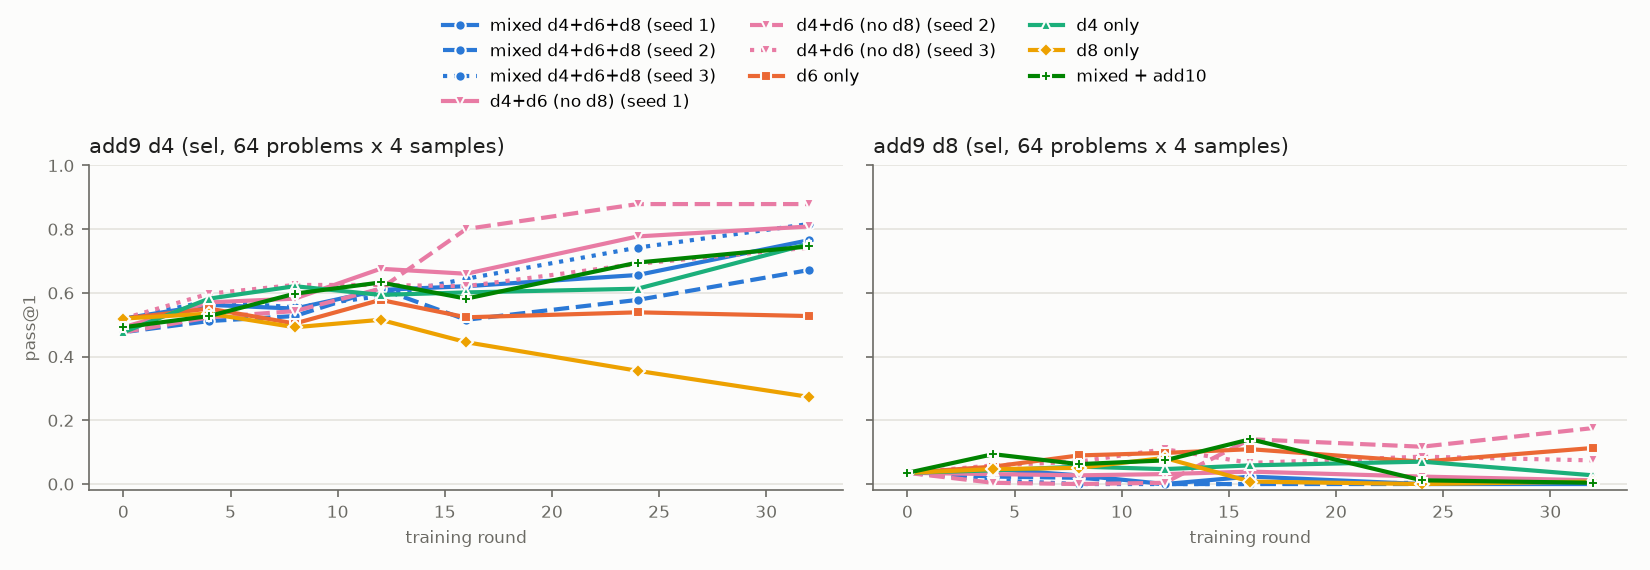
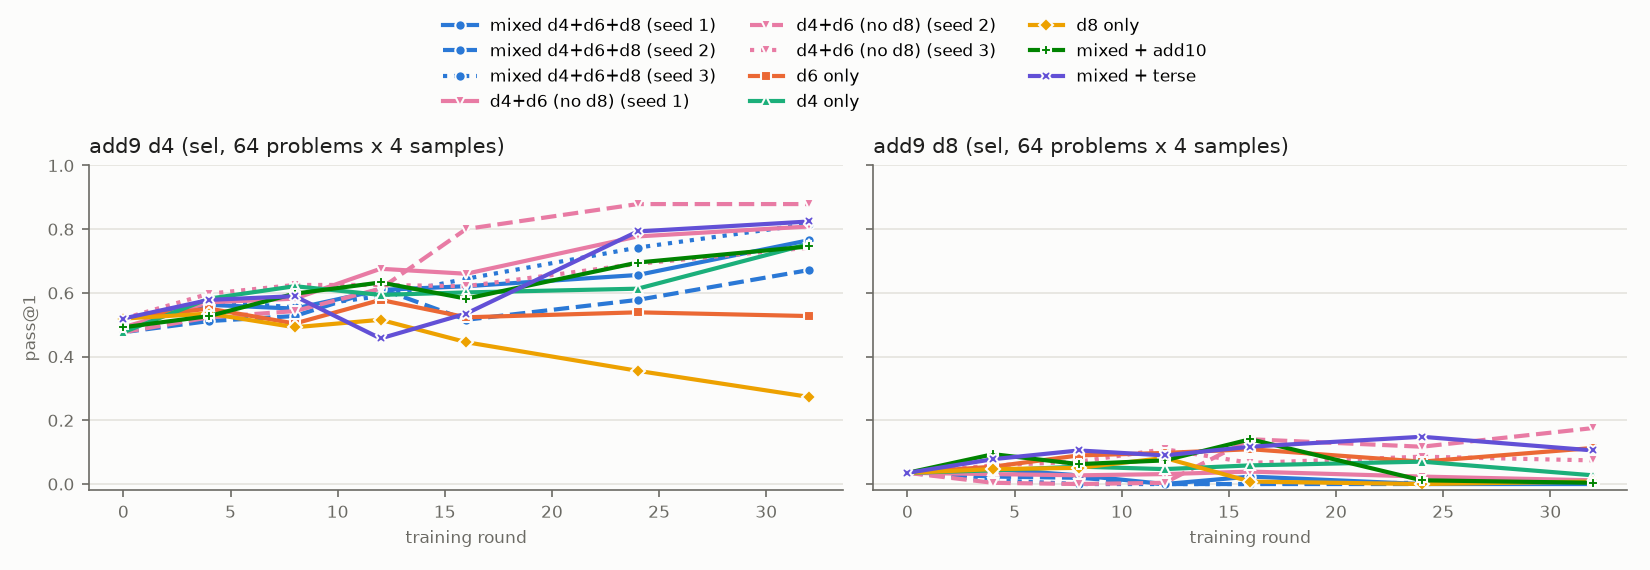
s02 report: J(add9,terse) (F18)

diff --git a/reports/Nov-15-2026-02-vineeth-babel-slurm-interference-dynamics/build/figs.py b/reports/Nov-15-2026-02-vineeth-babel-slurm-interference-dynamics/build/figs.py
@@ -78,7 +78,8 @@ ADD9 = [("mixed d4+d6+d8", 0, [("qis-s02-e1-add9-s1", 1), ("qis-s02-e3-add9mix-s
         ("d6 only", 1, [("qis-s02-e3-add9d6-s1", 1)]),
         ("d4 only", 2, [("qis-s02-e3-add9d4-s1", 1)]),
         ("d8 only", 3, [("qis-s02-e3-add9d8-s1", 1)]),
-        ("mixed + add10", 5, [("qis-s02-j-add9-add10-s1", 1)])]
+        ("mixed + add10", 5, [("qis-s02-j-add9-add10-s1", 1)]),
+        ("mixed + terse", 6, [("qis-s02-j-add9-terse-s1", 1)])]
 
 
 def fig_add9(res, out):

diff --git a/reports/Nov-15-2026-02-vineeth-babel-slurm-interference-dynamics/report.md b/reports/Nov-15-2026-02-vineeth-babel-slurm-interference-dynamics/report.md
@@ -75,7 +75,7 @@ groups + 8 competitor groups per round. **D(t) = p_T(R) − p_T(J)**: positive m
 | caesar | terse | harder strata delayed: D(s8, s12) +.11..+.18 at r16 | terse learned (.4 → .9+), protected | delay; transient in seed 1, unresolved in seed 2 | 2 | F6, F11 |
 | caesar | MBPP | all strata behind at r32: D +.09..+.12 | MBPP unaffected (D +.03, n.s.) | lag explained by step sharing (half-lr control costs .14-.53) | 1 | F15, F17 |
 | add9 | add10 | no harm; d6 collapse absent | not analysed | none detected | 1 | F7 |
-| add9 | terse | pending | pending | pending | 1 | — |
+| add9 | terse | no harm (J ahead of the collapsed R: d6 −.47) | terse learned (.4 → .93), protected | none detected | 1 | F18 |
 
 Single-task off-target effects at round 32 (Figure 2) show that a task's own training can damage an untrained one:
 
@@ -106,6 +106,7 @@ Single-task off-target effects at round 32 (Figure 2) show that a task's own tra
 | d4 only | 1 | no (d6 rises .15 → .36) | .36 |
 | d8 only | 1 | d6 falls .18 → .03 | .03 |
 | mixed + add10 | 1 | no | .53 |
+| mixed + terse | 1 | no | .52 |
 
 - **The chain is visible.** In seed 2, d6 training success went .50 (r12), .29 (r13), then 0 with all three d6
   groups all-wrong in rounds 14-26: 39 consecutive groups with no gradient (training records, F13).
@@ -153,7 +154,7 @@ and closes in one seed.
 | C-1 Caesar acquires all strata alone | e1-caesar-s1, -s2 | s12 .04 → .64-.71 | replicated (2 seeds) |
 | C-2 Caesar training breaks terse via long answers | e1-caesar-s1, -s2 | −.34, −.40; length 19 → 107 | replicated |
 | C-3 terse delays harder Caesar strata | j-caesar-terse-s1/-s2 vs e1-caesar-s1/-s2 | D(r16) s8 +.18/+.12, s12 +.11/+.15 | replicated; closure 1 of 2 |
-| C-4 add10 does not harm add9 | j-add9-add10-s1 vs e1-add9-s1 | |D(d4)| ≤ .05; d6 no collapse | 1 seed |
+| C-4 add10 / terse do not harm add9 | j-add9-add10-s1, j-add9-terse-s1 vs e1-add9-s1 | |D(d4)| ≤ .06; d6 no collapse in either | 1 seed each |
 | C-5 MBPP slows Caesar beyond step sharing | j-caesar-mbpp-s1, e1-caesar-s1, e1-mbpp-s1, e1-caesar-lr1e6-s1 | D(r32) +.09..+.12; half lr costs .14-.53 | not supported: step sharing suffices |
 | C-6 mixed add9 can collapse d6 | e1-add9-s1, e3-add9mix-s2, -s3r | 2 of 3 seeds | supported (reviewed) |
 | C-7 d4 training helps d6 | e3-add9d4-s1 | +.21 [+.13, +.30] | 1 seed (reviewed) |
